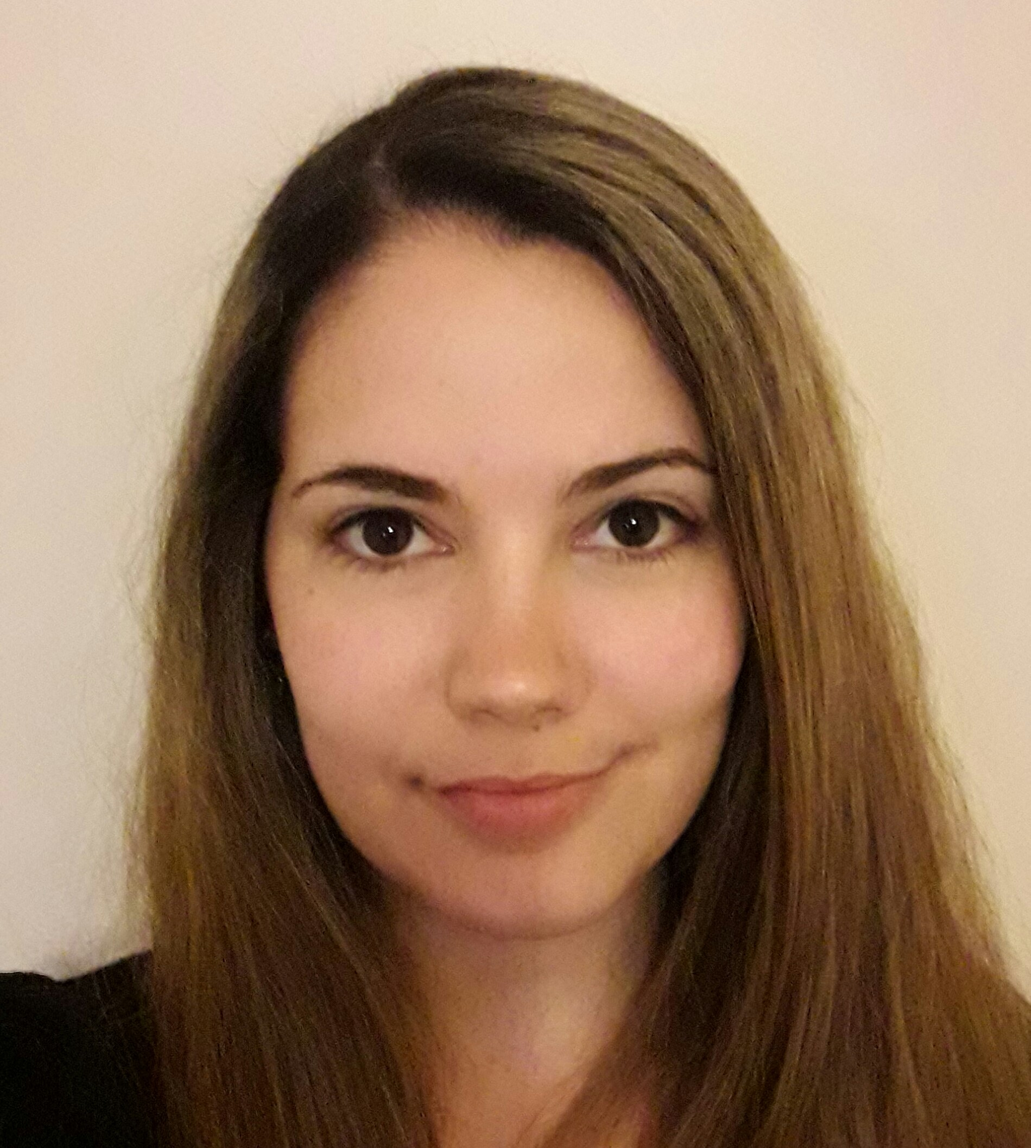
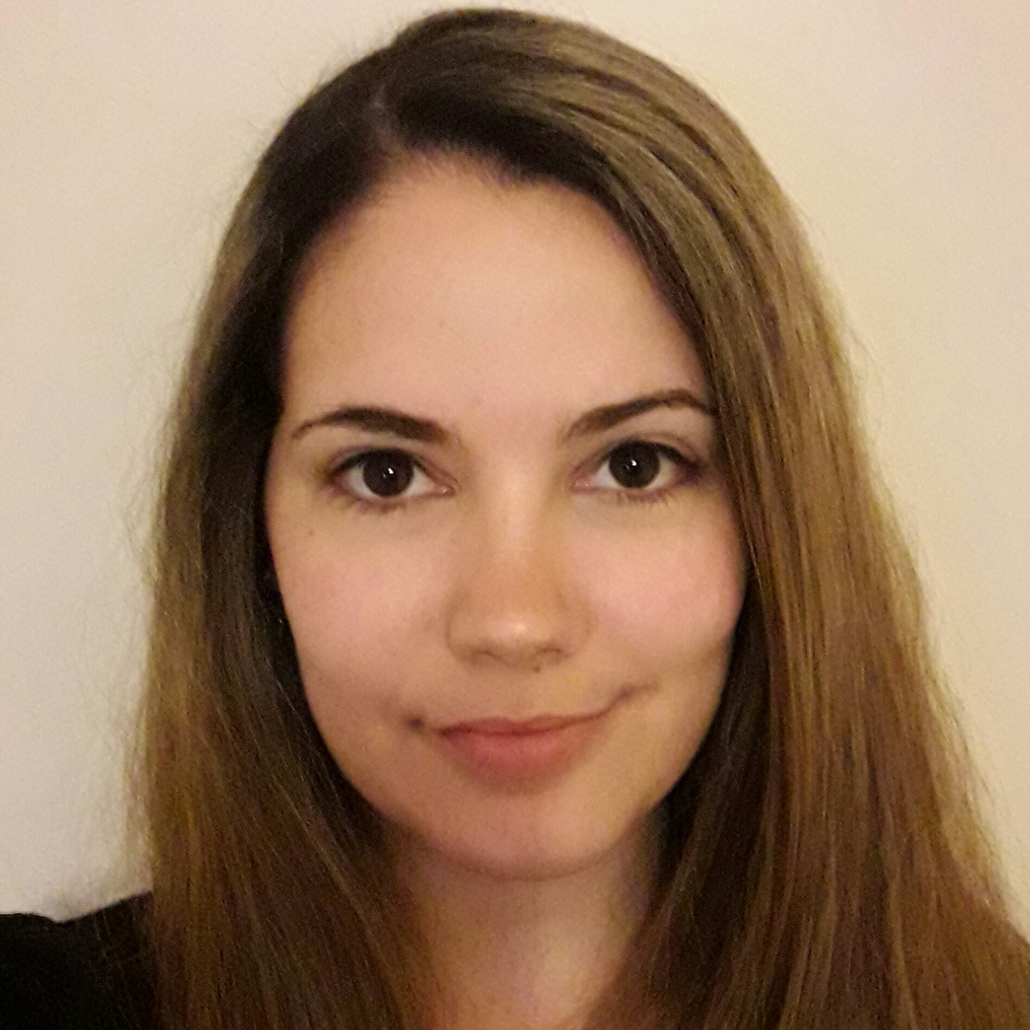
quinta version

diff --git a/index.html b/index.html
@@ -23,20 +23,24 @@
 
     <div class="grid-container" id="home">
         <div class="grid-one">
-            <img class="cv" src="cv foto.jpg" alt="">
+            <img class="cv imgRedonda" src="cv foto.jpg" alt="">
         </div>
         <div class="grid-two sans-serif">
             <h1>MARIA LAURA <br> RUSSO FELIZAR</h1>
             <ul>
                 <li id="date">Fecha de nacimiento: 24/10/1991</li>
                 <li id="map">Localidad: Villa Gral. Mitre, CABA (Argentina)</li>
+            </ul>
+        </div>
+        <div class="grid-three sans-serif">
+        	<ul>
                 <li id="about"> Acerca de mi</li>
-                    <p>Establecerme y consolidarme en una 
-                    organización que me ofrezca la 
-                    oportunidad de crecer en el área laboral, 
-                    personal e intelectual.
-                    </p>
-                   
+                <p class="grid-three">Estudiante de la Tecnicatura en Programación en Teclab (2° y último año de cursada). 
+                    <br>Soy una persona proactiva, organizada, con buena presencia y responsable. 
+                    <br>Con mi experiencia laboral desarrollé la capacidad de desenvolverme independiente y eficientemente, lo que me permite diagramar soluciones informáticas de manera rápida y efectiva.
+                    <br>Actualmente me encuentro expandiendo mis habilidades en el área de Front End, aprendiendo lenguajes como Javascript, frameworks y librerías. 
+                    <br>Estoy en la búsqueda de nuevos desafíos que me permitan aprender y crecer tanto en lo profesional como en lo personal.
+                </p>
             </ul>
         </div>
     </div>

diff --git a/style.css b/style.css
@@ -23,6 +23,12 @@
 body{
   color: #765996;
 }
+
+.imgRedonda {
+  width:250px;
+  height:250px;
+  border-radius:150px;
+}
 .background{
   background-color: white;
   background-size: cover;
@@ -44,14 +50,28 @@ h1, h2, h3{
 }
 .grid-container {
   display: grid;
-  grid-template-columns: 280px 400px;
-  padding: 10px;
+  grid-template-columns: 250px 300px;
+  grid-template-rows: auto auto;
+  padding: 20px;
+  box-sizing: content-box;
   box-shadow: 0 4px 8px 0 rgba(0, 0, 0, 0.2);
   margin-top: 20px;
 }
 .grid-container:hover{
   box-shadow: 0 4px 8px 0 rgba(0, 0, 0, 0.9);
 }
+
+.grid-two{
+  margin-left: 65px;
+}
+
+.grid-three{
+  width: 550px;
+  margin-top: -4px;
+  grid-column: 1 / span 2;
+  grid-row: 2;
+}
+
 
 #date{
 	padding: 15px 0 15px 40px;
